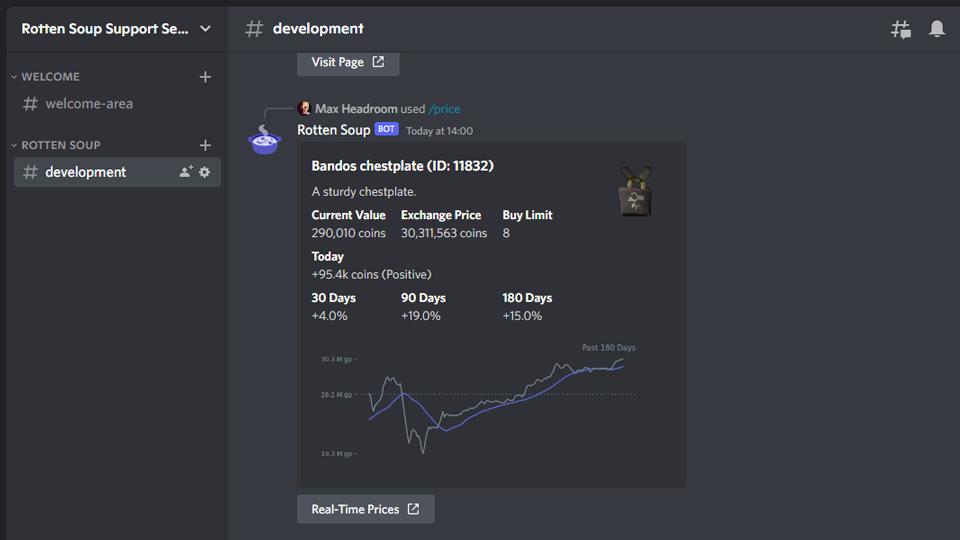
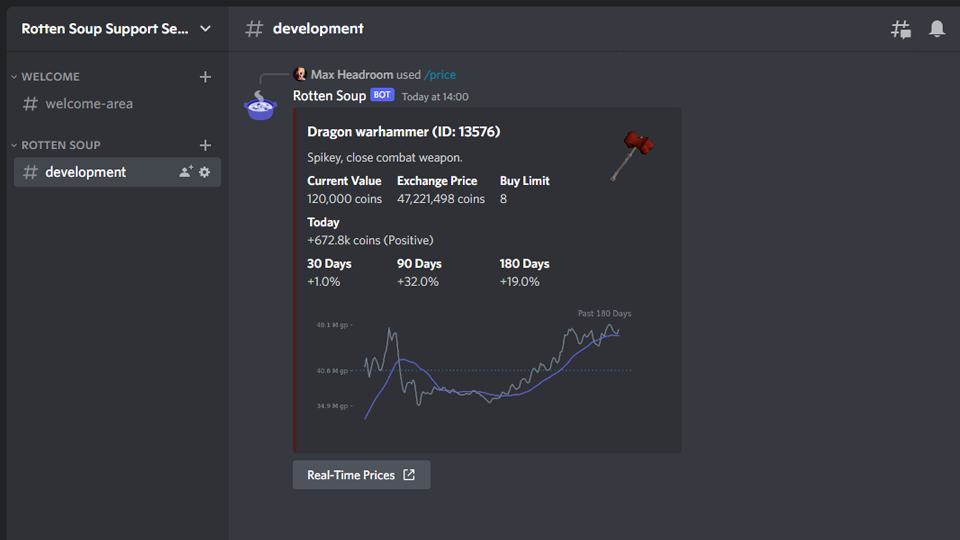
🔧 Update discord-rotten-soup: Version 1.0.1 - New screenshots

diff --git a/README.md b/README.md
@@ -108,6 +108,8 @@ Preferably, you should use Poetry to run this bot for local development:
 > Fetches the latest price trends and uses data visualisation.
 > <br /><br />
 > <img src="https://github.com/tarranprior/discord-rotten-soup/blob/main/assets/demo6.png" />
+> <br /><br />
+> <img src="https://github.com/tarranprior/discord-rotten-soup/blob/main/assets/demo7.png" />
 
 
 ## Support
